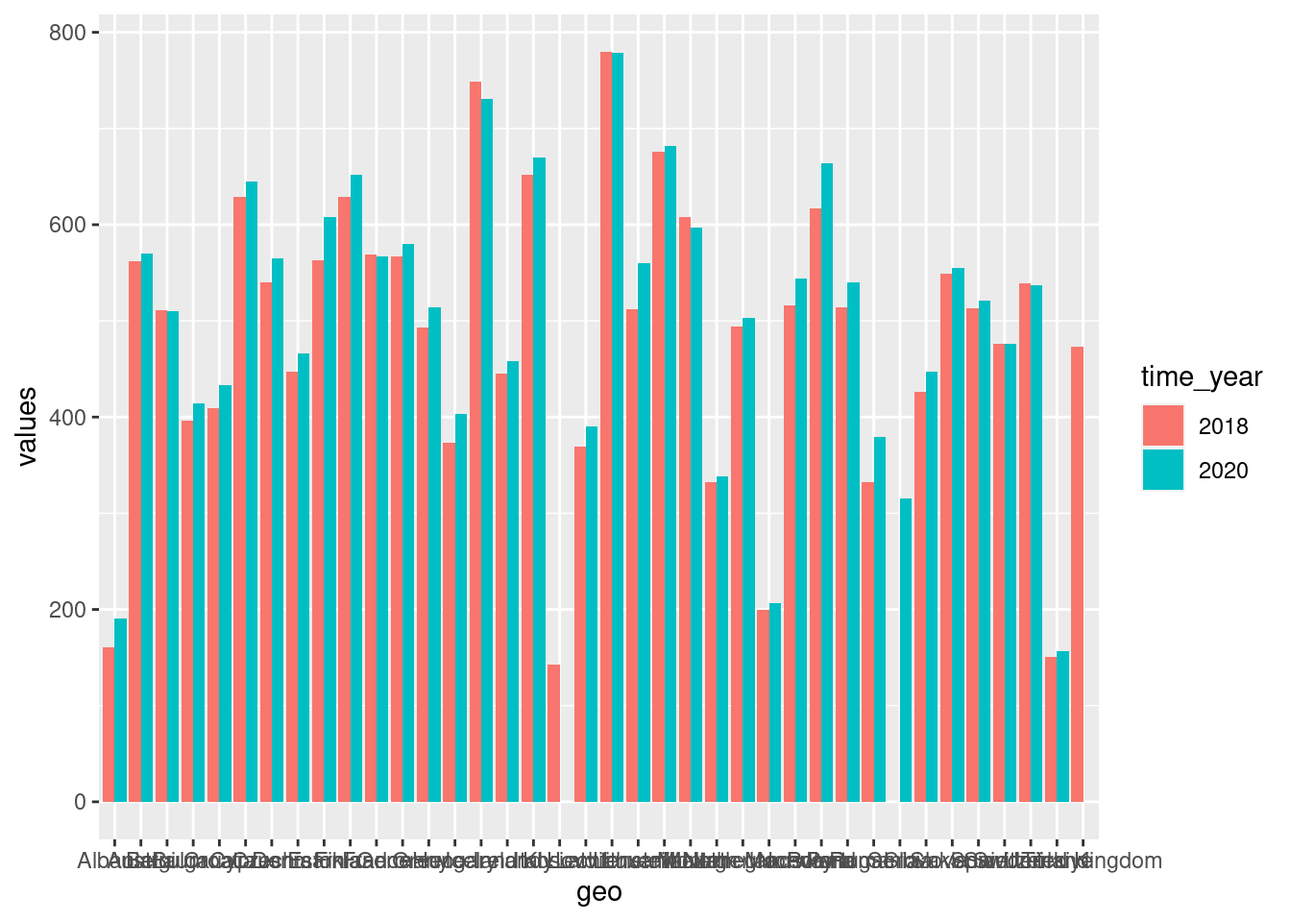
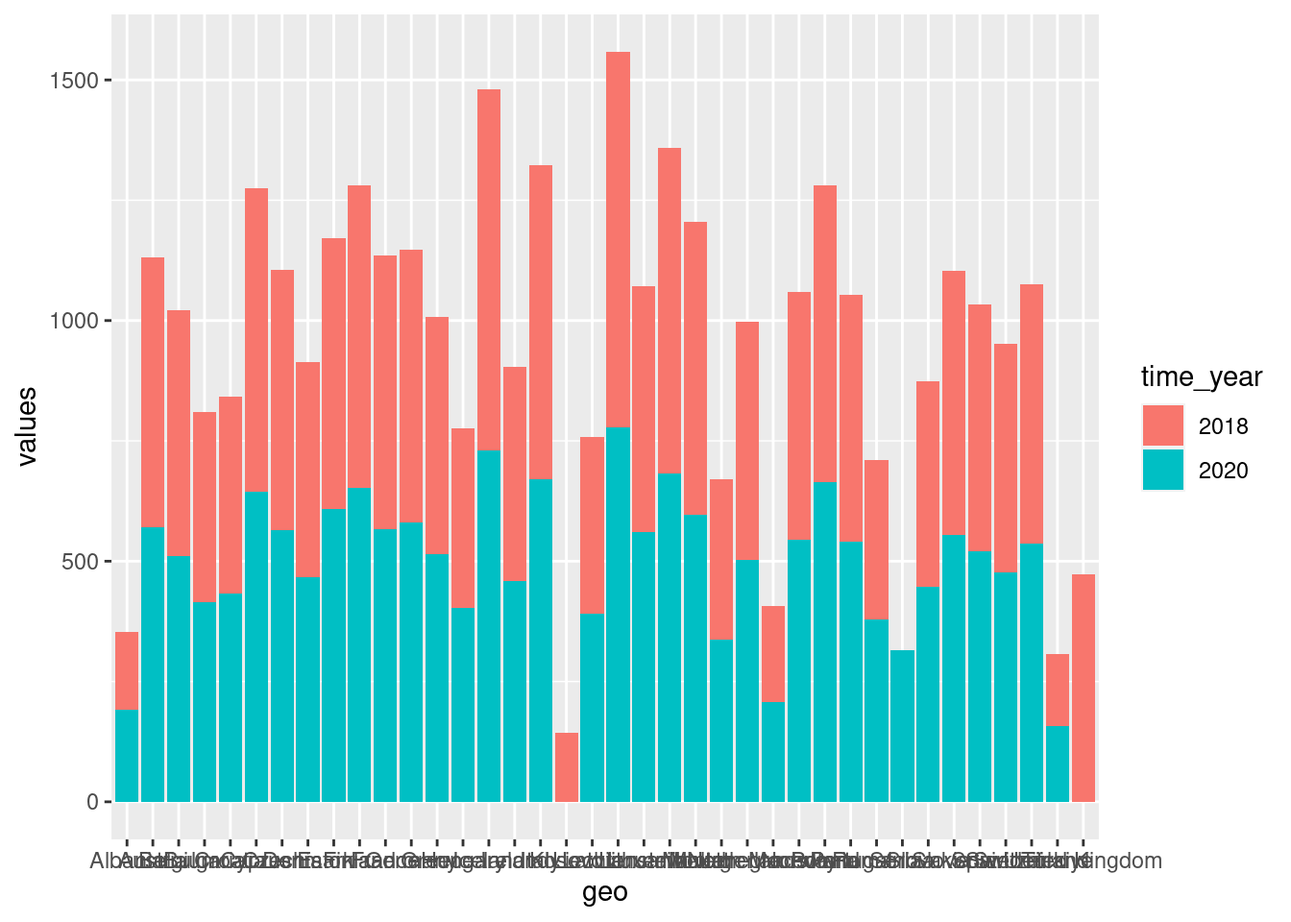
Pipe-Operator im Kapitel 4

diff --git a/docs/05-explorative-kategorial.html b/docs/05-explorative-kategorial.html
@@ -292,6 +292,7 @@ code span.wa { color: #60a0b0; font-weight: bold; font-style: italic; } /* Warni
 
 <div class="outcomes">
 <ul>
+<li>Den Pipe-Operator <code>%&gt;%</code>nutzen</li>
 <li>Kategoriale Variablen in Faktor umwandeln</li>
 <li>Kategoriale Variablen darstellen</li>
 <li>Neue Variablen mit <code>mutate()</code> erstellen</li>
@@ -341,9 +342,29 @@ date (1): time
 <div class="sourceCode cell-code" id="cb5"><pre class="sourceCode r code-with-copy"><code class="sourceCode r"><span id="cb5-1"><a href="#cb5-1" aria-hidden="true" tabindex="-1"></a>car_numbers <span class="ot">&lt;-</span> car_numbers <span class="sc">%&gt;%</span> </span>
 <span id="cb5-2"><a href="#cb5-2" aria-hidden="true" tabindex="-1"></a>  <span class="fu">mutate</span>(<span class="at">geo_factor =</span> <span class="fu">as_factor</span>(geo))</span></code><button title="Copy to Clipboard" class="code-copy-button"><i class="bi"></i></button></pre></div>
 </div>
-<p>Die Funktion <code>mutate()</code> kann neue Variablen in einem Datensatz erstellen, verändern oder löschen. In unserem Fall erstellen wir eine neue Variable, die wir <code>geo_factor</code> nennen. Die Funktion <code>as_factor()</code> wandelt (konvertiert) die Text-Variable <code>geo</code> in einen Faktor. Die Funktion <code>mutate()</code> fügt neue Variablen am Ende des <code>tibble</code>s ein:</p>
+<p>Das Zeichen <code>%&gt;%</code> heißt Pipe-Operator. Man spricht ihn als <strong>und dann</strong> aus. Mehr dazu lernen Sie im Tutorium. Hier reicht es, wenn Sie sich die Funktion des Pipe-Operators als ein <strong>Weitergeben</strong> oder ein <strong>Übergeben</strong> des Objekts auf der linken Seite des Pipe-Operators (also <code>car_numbers</code>) an die erste Stelle der Funktion in der neuen Zeile (bzw. rechts vom Pipe-Operator, also an die Funktion <code>mutate()</code>) vorstellen. Das bedeutet, dass man den Code oben auch wie folgt schreiben könnte:</p>
 <div class="cell">
-<div class="sourceCode cell-code" id="cb6"><pre class="sourceCode r code-with-copy"><code class="sourceCode r"><span id="cb6-1"><a href="#cb6-1" aria-hidden="true" tabindex="-1"></a>car_numbers</span></code><button title="Copy to Clipboard" class="code-copy-button"><i class="bi"></i></button></pre></div>
+<div class="sourceCode cell-code" id="cb6"><pre class="sourceCode r code-with-copy"><code class="sourceCode r"><span id="cb6-1"><a href="#cb6-1" aria-hidden="true" tabindex="-1"></a><span class="fu">mutate</span>(<span class="at">.data =</span> car_numbers, <span class="at">geo_factor =</span> <span class="fu">as_factor</span>(geo))</span></code><button title="Copy to Clipboard" class="code-copy-button"><i class="bi"></i></button></pre></div>
+<div class="cell-output-display">
+
+<div data-pagedtable="false">
+  <script data-pagedtable-source="" type="application/json">
+{"columns":[{"label":["geo"],"name":[1],"type":["chr"],"align":["left"]},{"label":["time"],"name":[2],"type":["date"],"align":["right"]},{"label":["unit"],"name":[3],"type":["chr"],"align":["left"]},{"label":["values"],"name":[4],"type":["dbl"],"align":["right"]},{"label":["geo_factor"],"name":[5],"type":["fct"],"align":["left"]}],"data":[{"1":"Albania","2":"2018-01-01","3":"Number","4":"161","5":"Albania"},{"1":"Albania","2":"2020-01-01","3":"Number","4":"191","5":"Albania"},{"1":"Austria","2":"2018-01-01","3":"Number","4":"562","5":"Austria"},{"1":"Austria","2":"2020-01-01","3":"Number","4":"570","5":"Austria"},{"1":"Belgium","2":"2018-01-01","3":"Number","4":"511","5":"Belgium"},{"1":"Belgium","2":"2020-01-01","3":"Number","4":"510","5":"Belgium"},{"1":"Bulgaria","2":"2018-01-01","3":"Number","4":"396","5":"Bulgaria"},{"1":"Bulgaria","2":"2020-01-01","3":"Number","4":"414","5":"Bulgaria"},{"1":"Croatia","2":"2018-01-01","3":"Number","4":"409","5":"Croatia"},{"1":"Croatia","2":"2020-01-01","3":"Number","4":"433","5":"Croatia"},{"1":"Cyprus","2":"2018-01-01","3":"Number","4":"629","5":"Cyprus"},{"1":"Cyprus","2":"2020-01-01","3":"Number","4":"645","5":"Cyprus"},{"1":"Czechia","2":"2018-01-01","3":"Number","4":"540","5":"Czechia"},{"1":"Czechia","2":"2020-01-01","3":"Number","4":"565","5":"Czechia"},{"1":"Denmark","2":"2018-01-01","3":"Number","4":"447","5":"Denmark"},{"1":"Denmark","2":"2020-01-01","3":"Number","4":"466","5":"Denmark"},{"1":"Estonia","2":"2018-01-01","3":"Number","4":"563","5":"Estonia"},{"1":"Estonia","2":"2020-01-01","3":"Number","4":"608","5":"Estonia"},{"1":"Finland","2":"2018-01-01","3":"Number","4":"629","5":"Finland"},{"1":"Finland","2":"2020-01-01","3":"Number","4":"652","5":"Finland"},{"1":"France","2":"2018-01-01","3":"Number","4":"569","5":"France"},{"1":"France","2":"2020-01-01","3":"Number","4":"567","5":"France"},{"1":"Germany","2":"2018-01-01","3":"Number","4":"567","5":"Germany"},{"1":"Germany","2":"2020-01-01","3":"Number","4":"580","5":"Germany"},{"1":"Greece","2":"2018-01-01","3":"Number","4":"493","5":"Greece"},{"1":"Greece","2":"2020-01-01","3":"Number","4":"514","5":"Greece"},{"1":"Hungary","2":"2018-01-01","3":"Number","4":"373","5":"Hungary"},{"1":"Hungary","2":"2020-01-01","3":"Number","4":"403","5":"Hungary"},{"1":"Iceland","2":"2018-01-01","3":"Number","4":"749","5":"Iceland"},{"1":"Iceland","2":"2020-01-01","3":"Number","4":"731","5":"Iceland"},{"1":"Ireland","2":"2018-01-01","3":"Number","4":"445","5":"Ireland"},{"1":"Ireland","2":"2020-01-01","3":"Number","4":"458","5":"Ireland"},{"1":"Italy","2":"2018-01-01","3":"Number","4":"652","5":"Italy"},{"1":"Italy","2":"2020-01-01","3":"Number","4":"670","5":"Italy"},{"1":"Kosovo","2":"2018-01-01","3":"Number","4":"143","5":"Kosovo"},{"1":"Kosovo","2":"2020-01-01","3":"NA","4":"NA","5":"Kosovo"},{"1":"Latvia","2":"2018-01-01","3":"Number","4":"369","5":"Latvia"},{"1":"Latvia","2":"2020-01-01","3":"Number","4":"390","5":"Latvia"},{"1":"Liechtenstein","2":"2018-01-01","3":"Number","4":"780","5":"Liechtenstein"},{"1":"Liechtenstein","2":"2020-01-01","3":"Number","4":"779","5":"Liechtenstein"},{"1":"Lithuania","2":"2018-01-01","3":"Number","4":"512","5":"Lithuania"},{"1":"Lithuania","2":"2020-01-01","3":"Number","4":"560","5":"Lithuania"},{"1":"Luxembourg","2":"2018-01-01","3":"Number","4":"676","5":"Luxembourg"},{"1":"Luxembourg","2":"2020-01-01","3":"Number","4":"682","5":"Luxembourg"},{"1":"Malta","2":"2018-01-01","3":"Number","4":"608","5":"Malta"},{"1":"Malta","2":"2020-01-01","3":"Number","4":"597","5":"Malta"},{"1":"Montenegro","2":"2018-01-01","3":"Number","4":"332","5":"Montenegro"},{"1":"Montenegro","2":"2020-01-01","3":"Number","4":"338","5":"Montenegro"},{"1":"Netherlands","2":"2018-01-01","3":"Number","4":"494","5":"Netherlands"},{"1":"Netherlands","2":"2020-01-01","3":"Number","4":"503","5":"Netherlands"},{"1":"North Macedonia","2":"2018-01-01","3":"Number","4":"200","5":"North Macedonia"},{"1":"North Macedonia","2":"2020-01-01","3":"Number","4":"207","5":"North Macedonia"},{"1":"Norway","2":"2018-01-01","3":"Number","4":"516","5":"Norway"},{"1":"Norway","2":"2020-01-01","3":"Number","4":"544","5":"Norway"},{"1":"Poland","2":"2018-01-01","3":"Number","4":"617","5":"Poland"},{"1":"Poland","2":"2020-01-01","3":"Number","4":"664","5":"Poland"},{"1":"Portugal","2":"2018-01-01","3":"Number","4":"514","5":"Portugal"},{"1":"Portugal","2":"2020-01-01","3":"Number","4":"540","5":"Portugal"},{"1":"Romania","2":"2018-01-01","3":"Number","4":"332","5":"Romania"},{"1":"Romania","2":"2020-01-01","3":"Number","4":"379","5":"Romania"},{"1":"Serbia","2":"2018-01-01","3":"NA","4":"NA","5":"Serbia"},{"1":"Serbia","2":"2020-01-01","3":"Number","4":"315","5":"Serbia"},{"1":"Slovakia","2":"2018-01-01","3":"Number","4":"426","5":"Slovakia"},{"1":"Slovakia","2":"2020-01-01","3":"Number","4":"447","5":"Slovakia"},{"1":"Slovenia","2":"2018-01-01","3":"Number","4":"549","5":"Slovenia"},{"1":"Slovenia","2":"2020-01-01","3":"Number","4":"555","5":"Slovenia"},{"1":"Spain","2":"2018-01-01","3":"Number","4":"513","5":"Spain"},{"1":"Spain","2":"2020-01-01","3":"Number","4":"521","5":"Spain"},{"1":"Sweden","2":"2018-01-01","3":"Number","4":"476","5":"Sweden"},{"1":"Sweden","2":"2020-01-01","3":"Number","4":"476","5":"Sweden"},{"1":"Switzerland","2":"2018-01-01","3":"Number","4":"539","5":"Switzerland"},{"1":"Switzerland","2":"2020-01-01","3":"Number","4":"537","5":"Switzerland"},{"1":"Türkiye","2":"2018-01-01","3":"Number","4":"151","5":"Türkiye"},{"1":"Türkiye","2":"2020-01-01","3":"Number","4":"157","5":"Türkiye"},{"1":"United Kingdom","2":"2018-01-01","3":"Number","4":"473","5":"United Kingdom"},{"1":"United Kingdom","2":"2020-01-01","3":"NA","4":"NA","5":"United Kingdom"}],"options":{"columns":{"min":{},"max":[10]},"rows":{"min":[10],"max":[10]},"pages":{}}}
+  </script>
+</div>
+</div>
+</div>
+<p>Das ist aber viel unübersichtlicher als mit dem Pipe-Operator. Da dieser den Code so schön strukturiert, wird er häufig verwendet und ist ein fester Bestandteil von <code>tidyverse</code>.</p>
+<p>Die Funktion <code>mutate()</code> kann neue Variablen in einem Datensatz erstellen, verändern oder löschen. In unserem Fall erstellen wir eine neue Variable, die wir <code>geo_factor</code> nennen. Die Funktion <code>as_factor()</code> wandelt (konvertiert) die Text-Variable <code>geo</code> in einen Faktor.</p>
+<p>Den Code <code>car_numbers %&gt;% mutate(geo_factor = as_factor(geo))</code> kann man also aussprechen als:</p>
+<ul>
+<li>Nimm den Datensatz <code>car_numbers</code> und dann</li>
+<li>erstelle darin eine neue Variable <code>geo_factor</code>, in der die Variable <code>geo</code> als Faktor abgespeichert wird.</li>
+</ul>
+<p>Den Pipe-Operator erhält man mit der Tastenkombination <code>Str</code>+<code>Shift</code>+<code>M</code>.</p>
+<p>Die Funktion <code>mutate()</code> fügt neue Variablen am Ende des <code>tibble</code>s ein:</p>
+<div class="cell">
+<div class="sourceCode cell-code" id="cb7"><pre class="sourceCode r code-with-copy"><code class="sourceCode r"><span id="cb7-1"><a href="#cb7-1" aria-hidden="true" tabindex="-1"></a>car_numbers</span></code><button title="Copy to Clipboard" class="code-copy-button"><i class="bi"></i></button></pre></div>
 <div class="cell-output-display">
 
 <div data-pagedtable="false">
@@ -355,7 +376,7 @@ date (1): time
 </div>
 <p>Nun können wir R auch fragen, welche verschiedene Merkmalsausprägungen (<em>levels</em>) diese Variable enthält:</p>
 <div class="cell">
-<div class="sourceCode cell-code" id="cb7"><pre class="sourceCode r code-with-copy"><code class="sourceCode r"><span id="cb7-1"><a href="#cb7-1" aria-hidden="true" tabindex="-1"></a><span class="fu">levels</span>(car_numbers<span class="sc">$</span>geo_factor)</span></code><button title="Copy to Clipboard" class="code-copy-button"><i class="bi"></i></button></pre></div>
+<div class="sourceCode cell-code" id="cb8"><pre class="sourceCode r code-with-copy"><code class="sourceCode r"><span id="cb8-1"><a href="#cb8-1" aria-hidden="true" tabindex="-1"></a><span class="fu">levels</span>(car_numbers<span class="sc">$</span>geo_factor)</span></code><button title="Copy to Clipboard" class="code-copy-button"><i class="bi"></i></button></pre></div>
 <div class="cell-output cell-output-stdout">
 <pre><code> [1] "Albania"         "Austria"         "Belgium"         "Bulgaria"       
  [5] "Croatia"         "Cyprus"          "Czechia"         "Denmark"        
@@ -376,21 +397,21 @@ date (1): time
 <p>Wir möchten die Daten als Balkendiagramm darstellen. Das Ziel ist eine ähnliche Darstellung, wie in der Vorlesung.</p>
 <div class="cell">
 <div class="cell-output-display">
-<p><img src="05-explorative-kategorial_files/figure-html/unnamed-chunk-8-1.png" class="img-fluid" width="672"></p>
+<p><img src="05-explorative-kategorial_files/figure-html/unnamed-chunk-9-1.png" class="img-fluid" width="672"></p>
 </div>
 </div>
 <p>Dazu müssen wir zuerst eine neue Variable erstellen, die wir zum Einfärben der Jahre nutzen können. Dazu benötigen wir eine zusätzliche Bibliothek, du uns den Umgang mit Datum und Uhrzeit erleichtert. Sie heißt <code>lubridate</code>.</p>
 <div class="cell">
-<div class="sourceCode cell-code" id="cb9"><pre class="sourceCode r code-with-copy"><code class="sourceCode r"><span id="cb9-1"><a href="#cb9-1" aria-hidden="true" tabindex="-1"></a><span class="fu">library</span>(lubridate)</span></code><button title="Copy to Clipboard" class="code-copy-button"><i class="bi"></i></button></pre></div>
+<div class="sourceCode cell-code" id="cb10"><pre class="sourceCode r code-with-copy"><code class="sourceCode r"><span id="cb10-1"><a href="#cb10-1" aria-hidden="true" tabindex="-1"></a><span class="fu">library</span>(lubridate)</span></code><button title="Copy to Clipboard" class="code-copy-button"><i class="bi"></i></button></pre></div>
 </div>
 <p>Nun nutzen wir die Funktion <code>year()</code> aus <code>lubridate</code>, um aus der Variablen <code>time</code> nur das Jahr zu extrahieren. Wir erstellen dazu mit <code>mutate()</code> wieder einen neue Variable, die wir <code>time_year</code> nennen.</p>
 <div class="cell">
-<div class="sourceCode cell-code" id="cb10"><pre class="sourceCode r code-with-copy"><code class="sourceCode r"><span id="cb10-1"><a href="#cb10-1" aria-hidden="true" tabindex="-1"></a>car_numbers <span class="ot">&lt;-</span> car_numbers <span class="sc">%&gt;%</span> </span>
-<span id="cb10-2"><a href="#cb10-2" aria-hidden="true" tabindex="-1"></a>  <span class="fu">mutate</span>(<span class="at">time_year =</span> <span class="fu">year</span>(time))</span></code><button title="Copy to Clipboard" class="code-copy-button"><i class="bi"></i></button></pre></div>
+<div class="sourceCode cell-code" id="cb11"><pre class="sourceCode r code-with-copy"><code class="sourceCode r"><span id="cb11-1"><a href="#cb11-1" aria-hidden="true" tabindex="-1"></a>car_numbers <span class="ot">&lt;-</span> car_numbers <span class="sc">%&gt;%</span> </span>
+<span id="cb11-2"><a href="#cb11-2" aria-hidden="true" tabindex="-1"></a>  <span class="fu">mutate</span>(<span class="at">time_year =</span> <span class="fu">year</span>(time))</span></code><button title="Copy to Clipboard" class="code-copy-button"><i class="bi"></i></button></pre></div>
 </div>
 <p>Auch diese Variable wir an das Ende des Datensatzes <code>car_numbers</code> gestellt.</p>
 <div class="cell">
-<div class="sourceCode cell-code" id="cb11"><pre class="sourceCode r code-with-copy"><code class="sourceCode r"><span id="cb11-1"><a href="#cb11-1" aria-hidden="true" tabindex="-1"></a>car_numbers</span></code><button title="Copy to Clipboard" class="code-copy-button"><i class="bi"></i></button></pre></div>
+<div class="sourceCode cell-code" id="cb12"><pre class="sourceCode r code-with-copy"><code class="sourceCode r"><span id="cb12-1"><a href="#cb12-1" aria-hidden="true" tabindex="-1"></a>car_numbers</span></code><button title="Copy to Clipboard" class="code-copy-button"><i class="bi"></i></button></pre></div>
 <div class="cell-output-display">
 
 <div data-pagedtable="false">
@@ -402,12 +423,12 @@ date (1): time
 </div>
 <p>Eine Variable zum Einfärben mit zwei verschiedenen Farben (je Jahr eine andere Farbe) muss kategorial sein. Die Variable <code>time_year</code> ist aber numerisch. Daher nutzen wir <code>mutate()</code>, um <code>time_year</code> in einen Faktor zu verwandeln.</p>
 <div class="cell">
-<div class="sourceCode cell-code" id="cb12"><pre class="sourceCode r code-with-copy"><code class="sourceCode r"><span id="cb12-1"><a href="#cb12-1" aria-hidden="true" tabindex="-1"></a>car_numbers <span class="ot">&lt;-</span> car_numbers <span class="sc">%&gt;%</span> </span>
-<span id="cb12-2"><a href="#cb12-2" aria-hidden="true" tabindex="-1"></a>  <span class="fu">mutate</span>(<span class="at">time_year =</span> <span class="fu">as_factor</span>(time_year))</span></code><button title="Copy to Clipboard" class="code-copy-button"><i class="bi"></i></button></pre></div>
+<div class="sourceCode cell-code" id="cb13"><pre class="sourceCode r code-with-copy"><code class="sourceCode r"><span id="cb13-1"><a href="#cb13-1" aria-hidden="true" tabindex="-1"></a>car_numbers <span class="ot">&lt;-</span> car_numbers <span class="sc">%&gt;%</span> </span>
+<span id="cb13-2"><a href="#cb13-2" aria-hidden="true" tabindex="-1"></a>  <span class="fu">mutate</span>(<span class="at">time_year =</span> <span class="fu">as_factor</span>(time_year))</span></code><button title="Copy to Clipboard" class="code-copy-button"><i class="bi"></i></button></pre></div>
 </div>
 <p>In diesem Fall erstellt <code>mutate()</code> keine neue Variable, sondern überschreibt (verändert) die vorhandene Variable <code>time_year</code>. Das ist möglich und gängige Praxis in R. Jetzt ist <code>time_year</code> ein Faktor, was man auch in der Darstelung des <code>tibble</code> sehen kann.</p>
 <div class="cell">
-<div class="sourceCode cell-code" id="cb13"><pre class="sourceCode r code-with-copy"><code class="sourceCode r"><span id="cb13-1"><a href="#cb13-1" aria-hidden="true" tabindex="-1"></a>car_numbers</span></code><button title="Copy to Clipboard" class="code-copy-button"><i class="bi"></i></button></pre></div>
+<div class="sourceCode cell-code" id="cb14"><pre class="sourceCode r code-with-copy"><code class="sourceCode r"><span id="cb14-1"><a href="#cb14-1" aria-hidden="true" tabindex="-1"></a>car_numbers</span></code><button title="Copy to Clipboard" class="code-copy-button"><i class="bi"></i></button></pre></div>
 <div class="cell-output-display">
 
 <div data-pagedtable="false">
@@ -419,28 +440,28 @@ date (1): time
 </div>
 <p>Nun geht es an die Darstellung. Im Kapitel <a href="03-ggplot.html"><span>Chapter&nbsp;3</span></a> haben Sie das <code>geom_bar()</code> kennengelernt. Es kann die Anzahl der Einträge in einer Variablen auszählen und diese als Balkendiagramm darstellen. Das möchten wir aber in unserem Fall nicht. Wir wollen die Anzahl der Autos darstellen, die in der Variablen <code>value</code> enthalten ist. In anderen Worten, wir wollen Werte und keine ausgezählten Merkmalsausprägungen (<em>counts</em>) darstellen. Das ist die Aufgabe des <code>geom_col()</code> (col steht für columns, also Säulen/Balken).</p>
 <div class="cell">
-<div class="sourceCode cell-code" id="cb14"><pre class="sourceCode r code-with-copy"><code class="sourceCode r"><span id="cb14-1"><a href="#cb14-1" aria-hidden="true" tabindex="-1"></a><span class="fu">ggplot</span>(<span class="at">data =</span> car_numbers, <span class="at">mapping =</span> <span class="fu">aes</span>(<span class="at">x =</span> geo, <span class="at">y =</span> values, <span class="at">fill =</span> time_year)) <span class="sc">+</span></span>
-<span id="cb14-2"><a href="#cb14-2" aria-hidden="true" tabindex="-1"></a>  <span class="fu">geom_col</span>()</span></code><button title="Copy to Clipboard" class="code-copy-button"><i class="bi"></i></button></pre></div>
+<div class="sourceCode cell-code" id="cb15"><pre class="sourceCode r code-with-copy"><code class="sourceCode r"><span id="cb15-1"><a href="#cb15-1" aria-hidden="true" tabindex="-1"></a><span class="fu">ggplot</span>(<span class="at">data =</span> car_numbers, <span class="at">mapping =</span> <span class="fu">aes</span>(<span class="at">x =</span> geo, <span class="at">y =</span> values, <span class="at">fill =</span> time_year)) <span class="sc">+</span></span>
+<span id="cb15-2"><a href="#cb15-2" aria-hidden="true" tabindex="-1"></a>  <span class="fu">geom_col</span>()</span></code><button title="Copy to Clipboard" class="code-copy-button"><i class="bi"></i></button></pre></div>
 <div class="cell-output-display">
-<p><img src="05-explorative-kategorial_files/figure-html/unnamed-chunk-14-1.png" class="img-fluid" width="672"></p>
+<p><img src="05-explorative-kategorial_files/figure-html/unnamed-chunk-15-1.png" class="img-fluid" width="672"></p>
 </div>
 </div>
 <p>Es ist noch etwas Nacharbeit nötig. Sieht man in die Hilfe von <code>geom_col()</code>, dann kann man nachlesen, dass es standardmäßig ein Stapelbalkendiagramm darstellt (<em>stacked bar plot</em> ). Möchte man die Balken nebeneinander haben (<em>dodged bar plot</em>), muss man das explizit sagen.</p>
 <div class="cell">
 <div class="cell-output-display">
-<p><img src="05-explorative-kategorial_files/figure-html/unnamed-chunk-15-1.png" class="img-fluid" width="672"></p>
+<p><img src="05-explorative-kategorial_files/figure-html/unnamed-chunk-16-1.png" class="img-fluid" width="672"></p>
 </div>
 </div>
 <p>Die Ländernamen erscheinen (wie es Standard ist) horizontal. In unserem Fall überdecken sie sich aber und wir sollten sie vertikal schreiben. Dazu gibt es eine neue Funktion aus <code>ggplot2</code>, die wie alle anderen mit einem <code>+</code> angehängt wird. Sie heißt <code>theme()</code>. Der Parameter, der die einzelnen</p>
 <div class="cell">
-<div class="sourceCode cell-code" id="cb15"><pre class="sourceCode r code-with-copy"><code class="sourceCode r"><span id="cb15-1"><a href="#cb15-1" aria-hidden="true" tabindex="-1"></a><span class="fu">ggplot</span>(<span class="at">data =</span> car_numbers, <span class="at">mapping =</span> <span class="fu">aes</span>(<span class="at">x =</span> geo, <span class="at">y =</span> values, <span class="at">fill =</span> time_year)) <span class="sc">+</span></span>
-<span id="cb15-2"><a href="#cb15-2" aria-hidden="true" tabindex="-1"></a>  <span class="fu">geom_col</span>(<span class="at">position =</span> <span class="fu">position_dodge</span>()) <span class="sc">+</span></span>
-<span id="cb15-3"><a href="#cb15-3" aria-hidden="true" tabindex="-1"></a>  <span class="fu">theme</span>(<span class="at">axis.text.x =</span> <span class="fu">element_text</span>(<span class="at">angle =</span> <span class="dv">90</span>, <span class="at">hjust =</span> <span class="dv">1</span>, <span class="at">vjust =</span> <span class="fl">0.5</span>))</span></code><button title="Copy to Clipboard" class="code-copy-button"><i class="bi"></i></button></pre></div>
+<div class="sourceCode cell-code" id="cb16"><pre class="sourceCode r code-with-copy"><code class="sourceCode r"><span id="cb16-1"><a href="#cb16-1" aria-hidden="true" tabindex="-1"></a><span class="fu">ggplot</span>(<span class="at">data =</span> car_numbers, <span class="at">mapping =</span> <span class="fu">aes</span>(<span class="at">x =</span> geo, <span class="at">y =</span> values, <span class="at">fill =</span> time_year)) <span class="sc">+</span></span>
+<span id="cb16-2"><a href="#cb16-2" aria-hidden="true" tabindex="-1"></a>  <span class="fu">geom_col</span>(<span class="at">position =</span> <span class="fu">position_dodge</span>()) <span class="sc">+</span></span>
+<span id="cb16-3"><a href="#cb16-3" aria-hidden="true" tabindex="-1"></a>  <span class="fu">theme</span>(<span class="at">axis.text.x =</span> <span class="fu">element_text</span>(<span class="at">angle =</span> <span class="dv">90</span>, <span class="at">hjust =</span> <span class="dv">1</span>, <span class="at">vjust =</span> <span class="fl">0.5</span>))</span></code><button title="Copy to Clipboard" class="code-copy-button"><i class="bi"></i></button></pre></div>
 <div class="cell-output cell-output-stderr">
 <pre><code>Warning: Removed 3 rows containing missing values (geom_col).</code></pre>
 </div>
 <div class="cell-output-display">
-<p><img src="05-explorative-kategorial_files/figure-html/unnamed-chunk-16-1.png" class="img-fluid" width="672"></p>
+<p><img src="05-explorative-kategorial_files/figure-html/unnamed-chunk-17-1.png" class="img-fluid" width="672"></p>
 </div>
 </div>
 </section>
@@ -449,14 +470,14 @@ date (1): time
 <h2 data-number="5.2" class="anchored" data-anchor-id="lending-club-peer-to-peer-kredite"><span class="header-section-number">5.2</span> Lending Club – Peer-to-Peer-Kredite</h2>
 <p><a href="https://de.wikipedia.org/wiki/Lending_Club#cite_note-1">Lending Club</a>: Ein US-Unternehmen, das Individuen über eine Plattform ermöglicht, an andere Individuen Geld zu verleihen (Peer-to-Peer-Kredite). Wir haben den Datensatz bereits in der Vorlesung kennengelernt. Er ist in der Bibliothek <code>openintro</code> als <code>loands_full_schema</code> zu finden. Wir laden die Bibliothek und holen uns den Datensatz.</p>
 <div class="cell">
-<div class="sourceCode cell-code" id="cb17"><pre class="sourceCode r code-with-copy"><code class="sourceCode r"><span id="cb17-1"><a href="#cb17-1" aria-hidden="true" tabindex="-1"></a><span class="co"># Das R-Paket (auch Bibliothek genannt) laden</span></span>
-<span id="cb17-2"><a href="#cb17-2" aria-hidden="true" tabindex="-1"></a><span class="fu">library</span>(openintro)</span>
-<span id="cb17-3"><a href="#cb17-3" aria-hidden="true" tabindex="-1"></a></span>
-<span id="cb17-4"><a href="#cb17-4" aria-hidden="true" tabindex="-1"></a><span class="co"># Datensatz laden</span></span>
-<span id="cb17-5"><a href="#cb17-5" aria-hidden="true" tabindex="-1"></a><span class="fu">data</span>(loans_full_schema)</span>
-<span id="cb17-6"><a href="#cb17-6" aria-hidden="true" tabindex="-1"></a></span>
-<span id="cb17-7"><a href="#cb17-7" aria-hidden="true" tabindex="-1"></a><span class="co"># Datensatz ansehen</span></span>
-<span id="cb17-8"><a href="#cb17-8" aria-hidden="true" tabindex="-1"></a><span class="fu">glimpse</span>(loans_full_schema)</span></code><button title="Copy to Clipboard" class="code-copy-button"><i class="bi"></i></button></pre></div>
+<div class="sourceCode cell-code" id="cb18"><pre class="sourceCode r code-with-copy"><code class="sourceCode r"><span id="cb18-1"><a href="#cb18-1" aria-hidden="true" tabindex="-1"></a><span class="co"># Das R-Paket (auch Bibliothek genannt) laden</span></span>
+<span id="cb18-2"><a href="#cb18-2" aria-hidden="true" tabindex="-1"></a><span class="fu">library</span>(openintro)</span>
+<span id="cb18-3"><a href="#cb18-3" aria-hidden="true" tabindex="-1"></a></span>
+<span id="cb18-4"><a href="#cb18-4" aria-hidden="true" tabindex="-1"></a><span class="co"># Datensatz laden</span></span>
+<span id="cb18-5"><a href="#cb18-5" aria-hidden="true" tabindex="-1"></a><span class="fu">data</span>(loans_full_schema)</span>
+<span id="cb18-6"><a href="#cb18-6" aria-hidden="true" tabindex="-1"></a></span>
+<span id="cb18-7"><a href="#cb18-7" aria-hidden="true" tabindex="-1"></a><span class="co"># Datensatz ansehen</span></span>
+<span id="cb18-8"><a href="#cb18-8" aria-hidden="true" tabindex="-1"></a><span class="fu">glimpse</span>(loans_full_schema)</span></code><button title="Copy to Clipboard" class="code-copy-button"><i class="bi"></i></button></pre></div>
 <div class="cell-output cell-output-stdout">
 <pre><code>Rows: 10,000
 Columns: 55
@@ -521,8 +542,8 @@ $ paid_late_fees                   &lt;dbl&gt; 0, 0, 0, 0, 0, 0, 0, 0, 0, 0, 0, 
 <h3 data-number="5.2.1" class="anchored" data-anchor-id="häufigkeitstabelle"><span class="header-section-number">5.2.1</span> Häufigkeitstabelle</h3>
 <p>Wir erstellen eine Häufigkeitstabelle der Variable <code>homeownership</code>. Dazu müssen wir die einzlenen Merkmalsausprägungen auszählen lassen. Das übernimmt die Funktion <code>count()</code>.</p>
 <div class="cell">
-<div class="sourceCode cell-code" id="cb19"><pre class="sourceCode r code-with-copy"><code class="sourceCode r"><span id="cb19-1"><a href="#cb19-1" aria-hidden="true" tabindex="-1"></a>loans_full_schema <span class="sc">%&gt;%</span> </span>
-<span id="cb19-2"><a href="#cb19-2" aria-hidden="true" tabindex="-1"></a>  <span class="fu">count</span>(homeownership)</span></code><button title="Copy to Clipboard" class="code-copy-button"><i class="bi"></i></button></pre></div>
+<div class="sourceCode cell-code" id="cb20"><pre class="sourceCode r code-with-copy"><code class="sourceCode r"><span id="cb20-1"><a href="#cb20-1" aria-hidden="true" tabindex="-1"></a>loans_full_schema <span class="sc">%&gt;%</span> </span>
+<span id="cb20-2"><a href="#cb20-2" aria-hidden="true" tabindex="-1"></a>  <span class="fu">count</span>(homeownership)</span></code><button title="Copy to Clipboard" class="code-copy-button"><i class="bi"></i></button></pre></div>
 <div class="cell-output-display">
 
 <div data-pagedtable="false">
@@ -535,14 +556,14 @@ $ paid_late_fees                   &lt;dbl&gt; 0, 0, 0, 0, 0, 0, 0, 0, 0, 0, 0, 
 <p>Das sieht anders aus, als in der Vorlesung. Das liegt daran, dass die Variable <code>homeownership</code> für die Vorlesung verändert wurde. Es ist nämlich störend, wenn die Merkmalsausprägungen mit Großbuchstaben geschrieben werden. Außerdem macht es logisch Sinn, zuerst die gemieteten, dann die mit einer Hypothek belegten und zum Schluss die Eigentumsobjekte zu sehen. Das spiegelt in einer gewissen Weise das Risiko wieder, das ein Kredit nicht bedient werden kann. Achtung: Es ist trotzdem keine ordinal-skalierte Variable!</p>
 <p>Wir ändern die Darstellung der Variablen <code>homeownership</code>. Um den Originaldatensatz nicht zu überschreiben, erstellen wir einen neuen, den wir <code>loans</code> nennen.</p>
 <div class="cell">
-<div class="sourceCode cell-code" id="cb20"><pre class="sourceCode r code-with-copy"><code class="sourceCode r"><span id="cb20-1"><a href="#cb20-1" aria-hidden="true" tabindex="-1"></a>loans <span class="ot">&lt;-</span> loans_full_schema <span class="sc">%&gt;%</span></span>
-<span id="cb20-2"><a href="#cb20-2" aria-hidden="true" tabindex="-1"></a>  <span class="fu">mutate</span>(<span class="at">homeownership =</span> <span class="fu">tolower</span>(homeownership),</span>
-<span id="cb20-3"><a href="#cb20-3" aria-hidden="true" tabindex="-1"></a>         <span class="at">homeownership =</span> <span class="fu">fct_relevel</span>(homeownership, <span class="st">"rent"</span>, <span class="st">"mortgage"</span>, <span class="st">"own"</span>))</span></code><button title="Copy to Clipboard" class="code-copy-button"><i class="bi"></i></button></pre></div>
+<div class="sourceCode cell-code" id="cb21"><pre class="sourceCode r code-with-copy"><code class="sourceCode r"><span id="cb21-1"><a href="#cb21-1" aria-hidden="true" tabindex="-1"></a>loans <span class="ot">&lt;-</span> loans_full_schema <span class="sc">%&gt;%</span></span>
+<span id="cb21-2"><a href="#cb21-2" aria-hidden="true" tabindex="-1"></a>  <span class="fu">mutate</span>(<span class="at">homeownership =</span> <span class="fu">tolower</span>(homeownership),</span>
+<span id="cb21-3"><a href="#cb21-3" aria-hidden="true" tabindex="-1"></a>         <span class="at">homeownership =</span> <span class="fu">fct_relevel</span>(homeownership, <span class="st">"rent"</span>, <span class="st">"mortgage"</span>, <span class="st">"own"</span>))</span></code><button title="Copy to Clipboard" class="code-copy-button"><i class="bi"></i></button></pre></div>
 </div>
 <p>Sie sehen, dass man die beiden Änderungen in einem Aufruf zu <code>mutate()</code> durchführen darf. Zuerst macht die Funktion <code>tolower()</code> aus den Großbuchstaben Kleinbuchstaben, danach änder die Funktion <code>fct_relevel()</code> die Reihenfolge der Kategorien der Merkmalsausprägungen (<em>levles</em>). Jetzt entspricht das Ergebnis dem der Vorlesung.</p>
 <div class="cell">
-<div class="sourceCode cell-code" id="cb21"><pre class="sourceCode r code-with-copy"><code class="sourceCode r"><span id="cb21-1"><a href="#cb21-1" aria-hidden="true" tabindex="-1"></a>loans <span class="sc">%&gt;%</span> </span>
-<span id="cb21-2"><a href="#cb21-2" aria-hidden="true" tabindex="-1"></a>  <span class="fu">count</span>(homeownership)</span></code><button title="Copy to Clipboard" class="code-copy-button"><i class="bi"></i></button></pre></div>
+<div class="sourceCode cell-code" id="cb22"><pre class="sourceCode r code-with-copy"><code class="sourceCode r"><span id="cb22-1"><a href="#cb22-1" aria-hidden="true" tabindex="-1"></a>loans <span class="sc">%&gt;%</span> </span>
+<span id="cb22-2"><a href="#cb22-2" aria-hidden="true" tabindex="-1"></a>  <span class="fu">count</span>(homeownership)</span></code><button title="Copy to Clipboard" class="code-copy-button"><i class="bi"></i></button></pre></div>
 <div class="cell-output-display">
 
 <div data-pagedtable="false">
@@ -557,8 +578,8 @@ $ paid_late_fees                   &lt;dbl&gt; 0, 0, 0, 0, 0, 0, 0, 0, 0, 0, 0, 
 <h3 data-number="5.2.2" class="anchored" data-anchor-id="kontingenztabelle"><span class="header-section-number">5.2.2</span> Kontingenztabelle</h3>
 <p>Eine Kontingenztabelle fasst zwei kategoriale Variablen zusammen. Jede Zeile zeigt die Anzahl der Kombinationen zwischen diesen Variablen.</p>
 <div class="cell">
-<div class="sourceCode cell-code" id="cb22"><pre class="sourceCode r code-with-copy"><code class="sourceCode r"><span id="cb22-1"><a href="#cb22-1" aria-hidden="true" tabindex="-1"></a>loans <span class="sc">%&gt;%</span></span>
-<span id="cb22-2"><a href="#cb22-2" aria-hidden="true" tabindex="-1"></a>  <span class="fu">count</span>(application_type, homeownership)</span></code><button title="Copy to Clipboard" class="code-copy-button"><i class="bi"></i></button></pre></div>
+<div class="sourceCode cell-code" id="cb23"><pre class="sourceCode r code-with-copy"><code class="sourceCode r"><span id="cb23-1"><a href="#cb23-1" aria-hidden="true" tabindex="-1"></a>loans <span class="sc">%&gt;%</span></span>
+<span id="cb23-2"><a href="#cb23-2" aria-hidden="true" tabindex="-1"></a>  <span class="fu">count</span>(application_type, homeownership)</span></code><button title="Copy to Clipboard" class="code-copy-button"><i class="bi"></i></button></pre></div>
 <div class="cell-output-display">
 
 <div data-pagedtable="false">
@@ -571,9 +592,9 @@ $ paid_late_fees                   &lt;dbl&gt; 0, 0, 0, 0, 0, 0, 0, 0, 0, 0, 0, 
 <p>Die Tabelle sieht auch anders aus als in der Vorlesung. Sie ist nämlich <code>tidy</code>: jede Spalte ist eine Variable und jede Zeile ist eine Beobachtung. In diesem Fall möchte man es aber eigentlich <code>untidy</code> dargestellt haben. Das ist einer der seltenen Fälle, nämlich die Darstellung von Tabellen, wo das auch Sinn macht. Achtung, jetzt wird es nerdy 🤓.</p>
 <p>Wir formatieren die Tabelle von lang <code>tidy</code> auf breit und <code>untidy</code>. Dabei wandern die Einträge der Spalte <code>homeowndership</code> in die Breite und werden zu neuen Spalten. Die einträge in den Tabellenzellen kommen aus der Spalte <code>n</code>.</p>
 <div class="cell">
-<div class="sourceCode cell-code" id="cb23"><pre class="sourceCode r code-with-copy"><code class="sourceCode r"><span id="cb23-1"><a href="#cb23-1" aria-hidden="true" tabindex="-1"></a>loans <span class="sc">%&gt;%</span></span>
-<span id="cb23-2"><a href="#cb23-2" aria-hidden="true" tabindex="-1"></a>  <span class="fu">count</span>(application_type, homeownership) <span class="sc">%&gt;%</span></span>
-<span id="cb23-3"><a href="#cb23-3" aria-hidden="true" tabindex="-1"></a>  <span class="fu">pivot_wider</span>(<span class="at">names_from =</span> homeownership, <span class="at">values_from =</span> n)</span></code><button title="Copy to Clipboard" class="code-copy-button"><i class="bi"></i></button></pre></div>
+<div class="sourceCode cell-code" id="cb24"><pre class="sourceCode r code-with-copy"><code class="sourceCode r"><span id="cb24-1"><a href="#cb24-1" aria-hidden="true" tabindex="-1"></a>loans <span class="sc">%&gt;%</span></span>
+<span id="cb24-2"><a href="#cb24-2" aria-hidden="true" tabindex="-1"></a>  <span class="fu">count</span>(application_type, homeownership) <span class="sc">%&gt;%</span></span>
+<span id="cb24-3"><a href="#cb24-3" aria-hidden="true" tabindex="-1"></a>  <span class="fu">pivot_wider</span>(<span class="at">names_from =</span> homeownership, <span class="at">values_from =</span> n)</span></code><button title="Copy to Clipboard" class="code-copy-button"><i class="bi"></i></button></pre></div>
 <div class="cell-output-display">
 
 <div data-pagedtable="false">
@@ -585,12 +606,12 @@ $ paid_late_fees                   &lt;dbl&gt; 0, 0, 0, 0, 0, 0, 0, 0, 0, 0, 0, 
 </div>
 <p>Jetzt fehlen nur noch die Zeilen- und Spaltensummen. Da hilft die Bibliothek <code>janitor</code></p>
 <div class="cell">
-<div class="sourceCode cell-code" id="cb24"><pre class="sourceCode r code-with-copy"><code class="sourceCode r"><span id="cb24-1"><a href="#cb24-1" aria-hidden="true" tabindex="-1"></a><span class="fu">library</span>(janitor)</span>
-<span id="cb24-2"><a href="#cb24-2" aria-hidden="true" tabindex="-1"></a></span>
-<span id="cb24-3"><a href="#cb24-3" aria-hidden="true" tabindex="-1"></a>loans <span class="sc">%&gt;%</span></span>
-<span id="cb24-4"><a href="#cb24-4" aria-hidden="true" tabindex="-1"></a>  <span class="fu">count</span>(application_type, homeownership) <span class="sc">%&gt;%</span></span>
-<span id="cb24-5"><a href="#cb24-5" aria-hidden="true" tabindex="-1"></a>  <span class="fu">pivot_wider</span>(<span class="at">names_from =</span> homeownership, <span class="at">values_from =</span> n) <span class="sc">%&gt;%</span> </span>
-<span id="cb24-6"><a href="#cb24-6" aria-hidden="true" tabindex="-1"></a>  <span class="fu">adorn_totals</span>(<span class="at">where =</span> <span class="fu">c</span>(<span class="st">"row"</span>, <span class="st">"col"</span>))</span></code><button title="Copy to Clipboard" class="code-copy-button"><i class="bi"></i></button></pre></div>
+<div class="sourceCode cell-code" id="cb25"><pre class="sourceCode r code-with-copy"><code class="sourceCode r"><span id="cb25-1"><a href="#cb25-1" aria-hidden="true" tabindex="-1"></a><span class="fu">library</span>(janitor)</span>
+<span id="cb25-2"><a href="#cb25-2" aria-hidden="true" tabindex="-1"></a></span>
+<span id="cb25-3"><a href="#cb25-3" aria-hidden="true" tabindex="-1"></a>loans <span class="sc">%&gt;%</span></span>
+<span id="cb25-4"><a href="#cb25-4" aria-hidden="true" tabindex="-1"></a>  <span class="fu">count</span>(application_type, homeownership) <span class="sc">%&gt;%</span></span>
+<span id="cb25-5"><a href="#cb25-5" aria-hidden="true" tabindex="-1"></a>  <span class="fu">pivot_wider</span>(<span class="at">names_from =</span> homeownership, <span class="at">values_from =</span> n) <span class="sc">%&gt;%</span> </span>
+<span id="cb25-6"><a href="#cb25-6" aria-hidden="true" tabindex="-1"></a>  <span class="fu">adorn_totals</span>(<span class="at">where =</span> <span class="fu">c</span>(<span class="st">"row"</span>, <span class="st">"col"</span>))</span></code><button title="Copy to Clipboard" class="code-copy-button"><i class="bi"></i></button></pre></div>
 <div class="cell-output-display">
 
 <div data-pagedtable="false">
